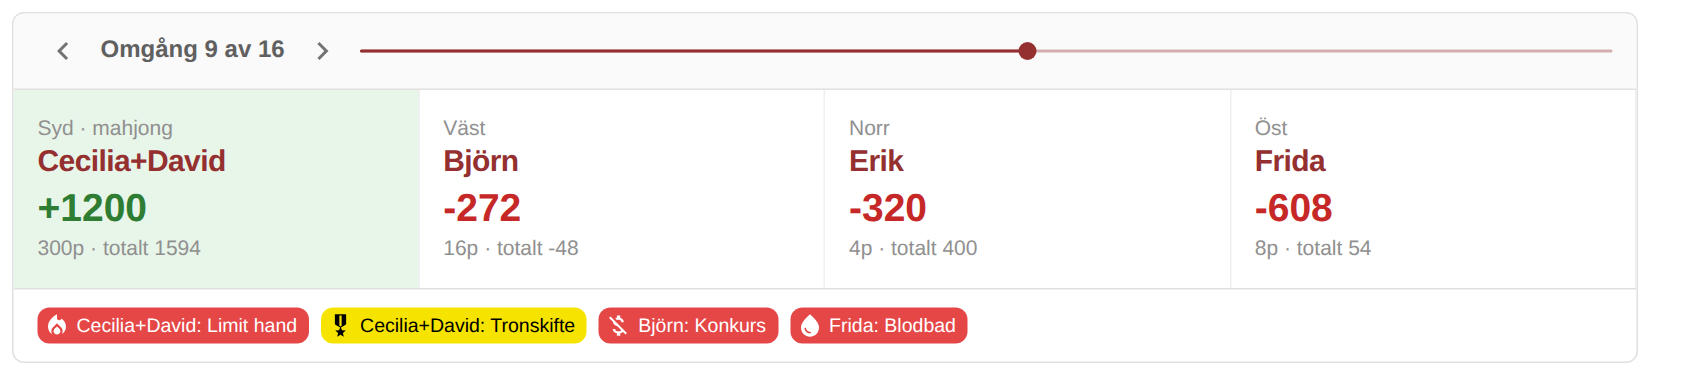
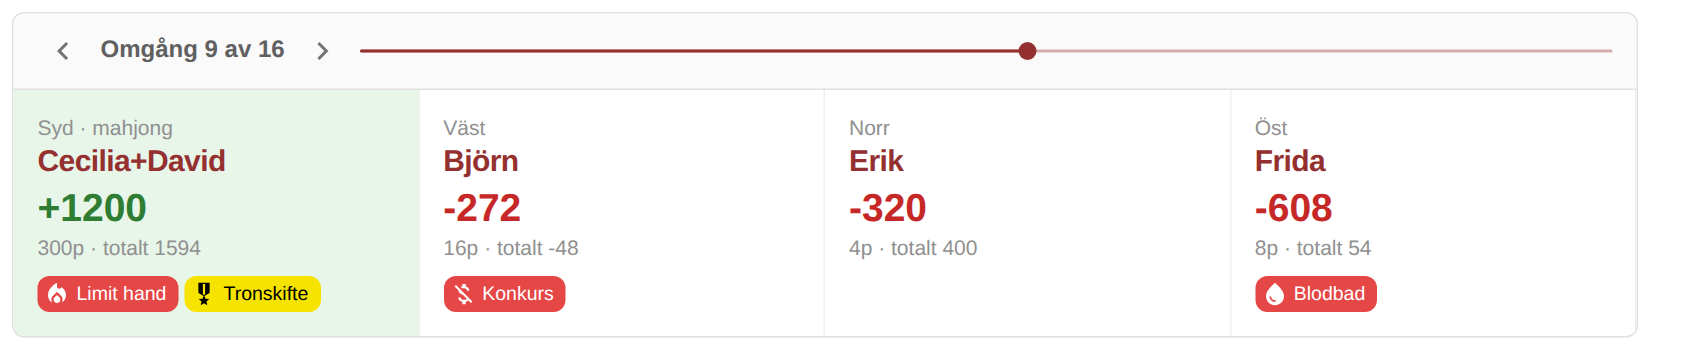
Keep team order and show badges in all player result proposals
None of the proposals reorder the teams any more, and every proposal
shows the hand badges on each team's card or row via a shared
ProposalBadges component. The winner proposal now highlights the winner
in place instead of lifting it out.

Claude-Session: https://claude.ai/code/session_01XR5Km9caTnzM4UkTSHMngY

diff --git a/src/components/match/proposals/Proposal06HeroWinner.tsx b/src/components/match/proposals/Proposal06HeroWinner.tsx
@@ -1,59 +1,59 @@
 import React from "react";
 import {Box, Chip, Grid, Stack, Typography} from "@mui/material";
-import {getPlayerResults, ProposalProps, scoreColor, signed} from "./playerResultData";
+import {getPlayerResults, PlayerResult, ProposalProps, scoreColor, signed} from "./playerResultData";
+import ProposalBadges from "./ProposalBadges";
 
-/** Proposal 6: the round's winner gets a large header card, the others a smaller row below. */
+function WinnerCard({r}: { r: PlayerResult }) {
+    return (
+        <Box sx={{
+            borderRadius: 3, p: 2, height: "100%", color: "white",
+            background: "linear-gradient(135deg, rgb(229, 70, 70), rgb(117, 62, 39))",
+            boxShadow: "0 8px 20px rgba(148, 48, 48, 0.35)",
+        }}>
+            <Typography variant="overline" sx={{color: "white", opacity: 0.85, lineHeight: 1.5}}>Mahjong · {r.windName}</Typography>
+            <Typography variant="h5" sx={{color: "white", fontWeight: 800}}>{r.name}</Typography>
+            <Stack direction="row" spacing={3} sx={{mt: 1}}>
+                <Box>
+                    <Typography sx={{color: "white", fontSize: 32, fontWeight: 800, lineHeight: 1}}>{signed(r.handScore)}</Typography>
+                    <Typography variant="caption" sx={{color: "white", opacity: 0.85}}>poäng</Typography>
+                </Box>
+                <Box>
+                    <Typography sx={{color: "white", fontSize: 32, fontWeight: 800, lineHeight: 1}}>{r.hand}p</Typography>
+                    <Typography variant="caption" sx={{color: "white", opacity: 0.85}}>hand</Typography>
+                </Box>
+            </Stack>
+            <Box sx={{display: "flex", flexWrap: "wrap", gap: 0.5, mt: 1}}>
+                {r.badges.map(b => (
+                    <Chip key={b.id} icon={b.icon} label={b.label} size="small"
+                          sx={{bgcolor: "rgba(255,255,255,0.2)", color: "white", "& .MuiChip-icon": {color: "white"}}}/>
+                ))}
+            </Box>
+        </Box>
+    );
+}
+
+function OtherCard({r}: { r: PlayerResult }) {
+    return (
+        <Box sx={{border: "1px solid #e0e0e0", borderRadius: 3, p: 2, height: "100%", bgcolor: "#fafafa"}}>
+            <Typography variant="overline" color="text.secondary" sx={{lineHeight: 1.5}}>{r.windName}</Typography>
+            <Typography variant="h6">{r.name}</Typography>
+            <Typography sx={{fontSize: 24, fontWeight: 700, color: scoreColor(r.handScore)}}>{signed(r.handScore)}</Typography>
+            <Typography variant="body2" color="text.secondary">Hand {r.hand}p</Typography>
+            <ProposalBadges badges={r.badges} justify="flex-start"/>
+        </Box>
+    );
+}
+
+/** Proposal 6: the round's winner stays in its place but stands out in the app's colours, the others are toned down. */
 export default function Proposal06HeroWinner(props: ProposalProps) {
     const results = getPlayerResults(props);
-    const winner = results.find(r => r.isWinner);
-    const others = results.filter(r => r !== winner).sort((a, b) => b.handScore - a.handScore);
     return (
-        <Stack spacing={2}>
-            {winner ? (
-                <Box sx={{
-                    borderRadius: 3, p: 3, color: "white",
-                    background: "linear-gradient(120deg, rgb(229, 70, 70), rgb(117, 62, 39))",
-                    display: "flex", alignItems: "center", justifyContent: "space-between", flexWrap: "wrap", gap: 2,
-                }}>
-                    <Box>
-                        <Typography variant="overline" sx={{color: "white", opacity: 0.85}}>Mahjong · {winner.windName}</Typography>
-                        <Typography variant="h4" sx={{color: "white", fontWeight: 800}}>{winner.name}</Typography>
-                        <Stack direction="row" spacing={1} sx={{mt: 1, flexWrap: "wrap"}}>
-                            {winner.badges.map(b => (
-                                <Chip key={b.id} icon={b.icon} label={b.label} size="small"
-                                      sx={{bgcolor: "rgba(255,255,255,0.2)", color: "white", "& .MuiChip-icon": {color: "white"}}}/>
-                            ))}
-                        </Stack>
-                    </Box>
-                    <Stack direction="row" spacing={4}>
-                        <Box sx={{textAlign: "center"}}>
-                            <Typography sx={{color: "white", fontSize: 40, fontWeight: 800, lineHeight: 1}}>{winner.hand}p</Typography>
-                            <Typography variant="caption" sx={{color: "white", opacity: 0.85}}>hand</Typography>
-                        </Box>
-                        <Box sx={{textAlign: "center"}}>
-                            <Typography sx={{color: "white", fontSize: 40, fontWeight: 800, lineHeight: 1}}>{signed(winner.handScore)}</Typography>
-                            <Typography variant="caption" sx={{color: "white", opacity: 0.85}}>poäng</Typography>
-                        </Box>
-                    </Stack>
-                </Box>
-            ) : (
-                <Box sx={{borderRadius: 3, p: 3, bgcolor: "#f5f5f5"}}>
-                    <Typography variant="h5">Ingen mahjong denna omgång</Typography>
-                </Box>
-            )}
-            <Grid container spacing={2}>
-                {others.map(r => (
-                    <Grid key={r.teamId} size={{xs: 12, sm: 4}}>
-                        <Box sx={{border: "1px solid #e0e0e0", borderRadius: 2, p: 1.5, display: "flex", justifyContent: "space-between", alignItems: "center"}}>
-                            <Box>
-                                <Typography sx={{fontWeight: 600}}>{r.name}</Typography>
-                                <Typography variant="caption" color="text.secondary">{r.windName} · {r.hand}p</Typography>
-                            </Box>
-                            <Typography variant="h6" sx={{fontWeight: 700, color: scoreColor(r.handScore)}}>{signed(r.handScore)}</Typography>
-                        </Box>
-                    </Grid>
-                ))}
-            </Grid>
-        </Stack>
+        <Grid container spacing={2}>
+            {results.map(r => (
+                <Grid key={r.teamId} size={{xs: 12, sm: 6, md: 3}}>
+                    {r.isWinner ? <WinnerCard r={r}/> : <OtherCard r={r}/>}
+                </Grid>
+            ))}
+        </Grid>
     );
 }

diff --git a/src/components/match/proposals/Proposal04CompactTable.tsx b/src/components/match/proposals/Proposal04CompactTable.tsx
@@ -1,11 +1,12 @@
 import React from "react";
-import {Box, Table, TableBody, TableCell, TableHead, TableRow, Tooltip, Typography} from "@mui/material";
+import {Box, Table, TableBody, TableCell, TableHead, TableRow, Typography} from "@mui/material";
 import EmojiEventsIcon from "@mui/icons-material/EmojiEvents";
-import {byRank, getPlayerResults, ProposalProps, scoreColor, signed} from "./playerResultData";
+import {getPlayerResults, ProposalProps, scoreColor, signed} from "./playerResultData";
+import ProposalBadges from "./ProposalBadges";
 
-/** Proposal 4: a dense table row per team. Fits mobile and makes "Alla omgångar" much shorter. */
+/** Proposal 4: a dense table row per team, in the same order as today. Fits mobile and makes "Alla omgångar" much shorter. */
 export default function Proposal04CompactTable(props: ProposalProps) {
-    const results = getPlayerResults(props).sort(byRank);
+    const results = getPlayerResults(props);
     return (
         <Box sx={{border: "1px solid #e0e0e0", borderRadius: 2, overflow: "hidden"}}>
             <Table size="small">
@@ -36,13 +37,7 @@ export default function Proposal04CompactTable(props: ProposalProps) {
                             <TableCell align="right" sx={{fontWeight: 700, color: scoreColor(r.handScore)}}>{signed(r.handScore)}</TableCell>
                             <TableCell align="right">{r.totalAfter}</TableCell>
                             <TableCell>
-                                <Box sx={{display: "flex", gap: 0.5}}>
-                                    {r.badges.map(b => (
-                                        <Tooltip key={b.id} title={b.label}>
-                                            <Box sx={{display: "flex", color: `${b.color}.main`, "& svg": {fontSize: 18}}}>{b.icon}</Box>
-                                        </Tooltip>
-                                    ))}
-                                </Box>
+                                <ProposalBadges badges={r.badges} justify="flex-start" mt={0}/>
                             </TableCell>
                         </TableRow>
                     ))}

diff --git a/src/components/match/proposals/Proposal10RoundStepper.tsx b/src/components/match/proposals/Proposal10RoundStepper.tsx
@@ -5,10 +5,11 @@ import {Box, Chip, Grid, IconButton, Slider, Stack, Typography} from "@mui/mater
 import ChevronLeftIcon from "@mui/icons-material/ChevronLeft";
 import ChevronRightIcon from "@mui/icons-material/ChevronRight";
 import {getPlayerResults, ProposalProps, scoreColor, signed} from "./playerResultData";
+import ProposalBadges from "./ProposalBadges";
 
 /**
  * Proposal 10: one widget with arrows and a slider to step through all rounds, instead of the long
- * "Visa alla omgångar" list. The badges get their own footer so they never cover the score.
+ * "Visa alla omgångar" list.
  */
 export default function Proposal10RoundStepper(props: ProposalProps) {
     const rounds = props.rounds ?? [props.round];
@@ -33,15 +34,10 @@ export default function Proposal10RoundStepper(props: ProposalProps) {
                         <Typography variant="h6">{r.name}</Typography>
                         <Typography sx={{fontSize: 26, fontWeight: 700, color: scoreColor(r.handScore)}}>{signed(r.handScore)}</Typography>
                         <Typography variant="body2" color="text.secondary">{r.hand}p · totalt {r.totalAfter}</Typography>
+                        <ProposalBadges badges={r.badges} justify="flex-start"/>
                     </Grid>
                 ))}
             </Grid>
-            <Stack direction="row" spacing={1} sx={{px: 2, py: 1.5, borderTop: "1px solid #e0e0e0", flexWrap: "wrap", minHeight: 48}} useFlexGap>
-                {results.flatMap(r => r.badges.map(b => (
-                    <Chip key={`${r.teamId}-${b.id}`} icon={b.icon} color={b.color} size="small" label={`${r.name}: ${b.label}`}/>
-                )))}
-                {results.every(r => r.badges.length === 0) && <Typography variant="body2" color="text.secondary">Inga märken denna omgång</Typography>}
-            </Stack>
         </Box>
     );
 }

diff --git a/src/components/match/proposals/Proposal01Standings.tsx b/src/components/match/proposals/Proposal01Standings.tsx
@@ -3,7 +3,8 @@ import {Box, Grid, Stack, Typography} from "@mui/material";
 import ArrowUpwardIcon from "@mui/icons-material/ArrowUpward";
 import ArrowDownwardIcon from "@mui/icons-material/ArrowDownward";
 import RemoveIcon from "@mui/icons-material/Remove";
-import {byRank, getPlayerResults, ProposalProps, scoreColor, signed} from "./playerResultData";
+import {getPlayerResults, ProposalProps, scoreColor, signed} from "./playerResultData";
+import ProposalBadges from "./ProposalBadges";
 
 function Movement({before, after}: { before: number, after: number }) {
     if (after < before) {
@@ -15,9 +16,9 @@ function Movement({before, after}: { before: number, after: number }) {
     return <RemoveIcon fontSize="small" sx={{color: "text.disabled"}}/>;
 }
 
-/** Proposal 1: the cards are ordered by placing, with the total as the main number and how the placing changed. */
+/** Proposal 1: the total is the main number, with the placing and how it changed. */
 export default function Proposal01Standings(props: ProposalProps) {
-    const results = getPlayerResults(props).sort(byRank);
+    const results = getPlayerResults(props);
     return (
         <Grid container spacing={2}>
             {results.map(r => (
@@ -38,6 +39,7 @@ export default function Proposal01Standings(props: ProposalProps) {
                             <Typography variant="caption" color="text.secondary">
                                 {r.windName} · hand {r.hand}p{r.isWinner ? " · mahjong" : ""}
                             </Typography>
+                            <ProposalBadges badges={r.badges}/>
                         </Box>
                     </Box>
                 </Grid>

diff --git a/src/components/match/proposals/Proposal09Table.tsx b/src/components/match/proposals/Proposal09Table.tsx
@@ -1,6 +1,7 @@
 import React from "react";
 import {Box, Typography} from "@mui/material";
 import {getPlayerResults, PlayerResult, ProposalProps, signed} from "./playerResultData";
+import ProposalBadges from "./ProposalBadges";
 
 /** Where each wind sits around the table, seen from East. */
 const SEAT: { [wind: string]: React.CSSProperties } = {
@@ -21,6 +22,7 @@ function Seat({r}: { r: PlayerResult }) {
             <Typography sx={{fontWeight: 700}}>{r.name}</Typography>
             <Typography sx={{fontSize: 22, fontWeight: 800, color: r.handScore >= 0 ? "#2e7d32" : "#c62828"}}>{signed(r.handScore)}</Typography>
             <Typography variant="caption" color="text.secondary">{r.hand}p · {r.totalAfter}</Typography>
+            <ProposalBadges badges={r.badges} justify="center"/>
         </Box>
     );
 }
@@ -31,8 +33,8 @@ export default function Proposal09Table(props: ProposalProps) {
     const winner = results.find(r => r.isWinner);
     return (
         <Box sx={{
-            display: "grid", gridTemplateColumns: "1fr 1.2fr 1fr", gridTemplateRows: "auto 140px auto", gap: 1,
-            p: 2, borderRadius: 4, maxWidth: 640, mx: "auto",
+            display: "grid", gridTemplateColumns: "1fr 1.2fr 1fr", gridTemplateRows: "auto minmax(140px, auto) auto", gap: 1,
+            p: 2, borderRadius: 4, maxWidth: 720, mx: "auto",
             background: "radial-gradient(circle at center, #2f7d55, #1b4d34)",
             border: "10px solid #6b3f22",
         }}>

diff --git a/src/components/match/proposals/Proposal05ScoreBars.tsx b/src/components/match/proposals/Proposal05ScoreBars.tsx
@@ -1,10 +1,11 @@
 import React from "react";
 import {Box, Stack, Typography} from "@mui/material";
 import {getPlayerResults, ProposalProps, SCORE_GREEN, SCORE_RED, signed} from "./playerResultData";
+import ProposalBadges from "./ProposalBadges";
 
 /** Proposal 5: diverging bars show at a glance who won and who paid, and how much. */
 export default function Proposal05ScoreBars(props: ProposalProps) {
-    const results = getPlayerResults(props).sort((a, b) => b.handScore - a.handScore);
+    const results = getPlayerResults(props);
     const max = Math.max(1, ...results.map(r => Math.abs(r.handScore)));
     return (
         <Stack spacing={1.25} sx={{border: "1px solid #e0e0e0", borderRadius: 2, p: 2}}>
@@ -31,6 +32,11 @@ export default function Proposal05ScoreBars(props: ProposalProps) {
                         <Typography sx={{fontWeight: 700, textAlign: "right", color: positive ? SCORE_GREEN : SCORE_RED}}>
                             {signed(r.handScore)}
                         </Typography>
+                        {r.badges.length > 0 && (
+                            <Box sx={{gridColumn: "2 / 4", mt: -1}}>
+                                <ProposalBadges badges={r.badges} justify="flex-start" mt={0}/>
+                            </Box>
+                        )}
                     </Box>
                 );
             })}

diff --git a/src/components/match/proposals/Proposal02WindTiles.tsx b/src/components/match/proposals/Proposal02WindTiles.tsx
@@ -1,10 +1,11 @@
 import React from "react";
 import {Box, Chip, Grid, Typography} from "@mui/material";
-import {byWind, getPlayerResults, ProposalProps, scoreColor, signed} from "./playerResultData";
+import {getPlayerResults, ProposalProps, scoreColor, signed} from "./playerResultData";
+import ProposalBadges from "./ProposalBadges";
 
-/** Proposal 2: every card is headed by a mahjong tile with the player's wind, ordered East, South, West, North. */
+/** Proposal 2: every card is headed by a mahjong tile with the player's wind. */
 export default function Proposal02WindTiles(props: ProposalProps) {
-    const results = getPlayerResults(props).sort(byWind);
+    const results = getPlayerResults(props);
     return (
         <Grid container spacing={2}>
             {results.map(r => (
@@ -35,6 +36,7 @@ export default function Proposal02WindTiles(props: ProposalProps) {
                                 Hand {r.hand}p · totalt {r.totalAfter}
                             </Typography>
                             {r.isWinner && <Chip label="Mahjong!" size="small" sx={{mt: 0.5, bgcolor: "#c9a227", color: "white", fontWeight: 700}}/>}
+                            <ProposalBadges badges={r.badges} justify="flex-start"/>
                         </Box>
                     </Box>
                 </Grid>

diff --git a/src/components/match/proposals/Proposal08BeforeAfter.tsx b/src/components/match/proposals/Proposal08BeforeAfter.tsx
@@ -5,6 +5,7 @@ import {Box, Grid, Stack, Typography} from "@mui/material";
 import {animate, motion, useMotionValue, useTransform} from "motion/react";
 import EastIcon from "@mui/icons-material/East";
 import {getPlayerResults, ProposalProps, scoreColor, signed} from "./playerResultData";
+import ProposalBadges from "./ProposalBadges";
 
 function CountUp({from, to}: { from: number, to: number }) {
     const value = useMotionValue(from);
@@ -43,6 +44,7 @@ export default function Proposal08BeforeAfter(props: ProposalProps) {
                             <Typography component="span" variant="body2" sx={{ml: 1, color: scoreColor(0)}}>
                                 hand {r.hand}p{r.isWinner ? " · mahjong" : ""}
                             </Typography>
+                            <ProposalBadges badges={r.badges}/>
                         </Box>
                     </motion.div>
                 </Grid>

diff --git a/src/components/match/proposals/Proposal03TeamColors.tsx b/src/components/match/proposals/Proposal03TeamColors.tsx
@@ -1,6 +1,7 @@
 import React from "react";
 import {Avatar, Box, Chip, Grid, Stack, Typography} from "@mui/material";
 import {getPlayerResults, ProposalProps, scoreColor, signed} from "./playerResultData";
+import ProposalBadges from "./ProposalBadges";
 
 /** Proposal 3: the team colours from the match chart tie the cards to the chart lines above. */
 export default function Proposal03TeamColors(props: ProposalProps) {
@@ -33,6 +34,7 @@ export default function Proposal03TeamColors(props: ProposalProps) {
                                     <Typography variant="h5" sx={{fontWeight: 700, color: scoreColor(r.handScore)}}>{signed(r.handScore)}</Typography>
                                 </Box>
                             </Stack>
+                            <ProposalBadges badges={r.badges}/>
                         </Box>
                     </Box>
                 </Grid>

diff --git a/src/components/match/proposals/ProposalBadges.tsx b/src/components/match/proposals/ProposalBadges.tsx
@@ -1,0 +1,23 @@
+import React from "react";
+import {Box, Chip} from "@mui/material";
+import {BadgeInfo} from "./playerResultData";
+
+interface Props {
+    readonly badges: readonly BadgeInfo[];
+    readonly justify?: "flex-start" | "flex-end" | "center";
+    readonly mt?: number;
+}
+
+/** The hand badges as chips, the same way HandBadges shows them in the current widget. */
+export default function ProposalBadges({badges, justify = "flex-end", mt = 1}: Props) {
+    if (badges.length === 0) {
+        return null;
+    }
+    return (
+        <Box sx={{display: "flex", flexWrap: "wrap", justifyContent: justify, gap: 0.5, mt}}>
+            {badges.map(badge => (
+                <Chip key={badge.id} label={badge.label} color={badge.color} size="small" icon={badge.icon}/>
+            ))}
+        </Box>
+    );
+}

diff --git a/src/components/match/proposals/playerResultData.ts b/src/components/match/proposals/playerResultData.ts
@@ -47,7 +47,6 @@ export interface PlayerResult {
 
 const WIND_NAMES: { [wind: string]: string } = {E: "Öst", S: "Syd", W: "Väst", N: "Norr"};
 const WIND_CHARS: { [wind: string]: string } = {E: "東", S: "南", W: "西", N: "北"};
-export const WIND_ORDER = ["E", "S", "W", "N"];
 
 const FALLBACK_COLORS = ["#e54646", "#3478c8", "#3caa5a", "#e6a028"];
 
@@ -107,8 +106,6 @@ export function getPlayerResults({teamIdToName, round, colors, rounds}: Proposal
     });
 }
 
-export const byRank = (a: PlayerResult, b: PlayerResult) => a.rankAfter - b.rankAfter || b.totalAfter - a.totalAfter;
-export const byWind = (a: PlayerResult, b: PlayerResult) => WIND_ORDER.indexOf(a.wind) - WIND_ORDER.indexOf(b.wind);
 
 export const signed = (value: number) => (value > 0 ? `+${value}` : `${value}`);
 

diff --git a/src/components/match/proposals/Proposal07Sparkline.tsx b/src/components/match/proposals/Proposal07Sparkline.tsx
@@ -1,6 +1,7 @@
 import React from "react";
 import {Box, Grid, Stack, Typography} from "@mui/material";
 import {getPlayerResults, ProposalProps, scoreColor, signed} from "./playerResultData";
+import ProposalBadges from "./ProposalBadges";
 
 const WIDTH = 200;
 const HEIGHT = 48;
@@ -42,6 +43,7 @@ export default function Proposal07Sparkline(props: ProposalProps) {
                                 {signed(r.handScore)} <Typography component="span" variant="caption" color="text.secondary">({r.hand}p)</Typography>
                             </Typography>
                         </Stack>
+                        <ProposalBadges badges={r.badges}/>
                     </Box>
                 </Grid>
             ))}
